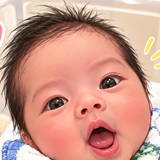
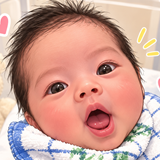
看板:24小時橫棒每項任務用唔同色相(睡眠灰藍、自由橙);揀單人時唔再用總表(只全部人有總表);德德頭像重剪包返下巴

diff --git a/src/Board.jsx b/src/Board.jsx
@@ -89,7 +89,7 @@ export default function Board() {
   const [viewS, setView] = useState(() => (['day', 'list'].includes(cget('board-view')) ? cget('board-view') : 'time'))
   // 「我嘅時間」永遠係 Benny、只有列表;「全貌」先有人物篩選同總表
   const who = mode === 'me' ? 'benny' : whoS
-  const view = mode === 'me' && viewS === 'day' ? 'time' : viewS
+  const view = (mode === 'me' || whoS !== 'all') && viewS === 'day' ? 'time' : viewS
   const [rows, setRows] = useState(() => cget('board')) // 全部日子嘅格
   const [err, setErr] = useState('')
   const [edit, setEdit] = useState(null)
@@ -288,7 +288,7 @@ export default function Board() {
           </label>
           <label>顯示
             <select value={view} onChange={(e) => pickView(e.target.value)}>
-              {mode === 'all' && <option value="day">總表</option>}
+              {mode === 'all' && who === 'all' && <option value="day">總表</option>}
               <option value="time">按時間</option>
               <option value="list">按類別</option>
             </select>
@@ -341,12 +341,19 @@ export default function Board() {
 }
 
 // 24 小時去向:一條橫棒 + 每項用幾耐(自由時間珊瑚色,其他按時間長短深淺)
-const SHADES = ['#2f4a6b', '#3f6490', '#5f84ad', '#86a3c4', '#aebfd6', '#cdd8e6']
+const PAL = ['#3b7dd8', '#2aa198', '#8e63c7', '#5aa65a', '#d9608c', '#a77b4f', '#4cc2e0', '#4b4bd6', '#b5c93a', '#7a8fa8']
+const barColor = (k) => {
+  if (k === 'me') return '#f2774b'
+  if (k === 'sleep') return '#c3cfdc'
+  if (k === '__standby' || k === '__blank') return '#e9eef4'
+  let i = pickableTasks().indexOf(k)
+  if (i < 0) i = [...k].reduce((a, c) => a + c.charCodeAt(0), 0)
+  return PAL[i % PAL.length]
+}
 function Breakdown({ items, title }) {
   const total = items.reduce((a, x) => a + x.n, 0) || 1
-  let rank = 0
   const rows = items.map((x) => {
-    const color = x.k === 'me' ? '#f2774b' : x.k === '__standby' || x.k === '__blank' ? '#e3eaf2' : SHADES[Math.min(rank++, SHADES.length - 1)]
+    const color = barColor(x.k)
     return { ...x, color, name: x.k === 'me' ? '自由時間' : x.k === '__standby' ? '待命(冇指定責任)' : x.k === '__blank' ? '冇安排' : tname(x.k), icon: x.k === 'me' ? '⭐' : x.k === '__standby' ? '⏳' : x.k === '__blank' ? '▫' : ticon(x.k) }
   })
   return (
@@ -375,8 +382,7 @@ function FamilyBars({ items }) {
       <div className="bkd-title">全家 24 小時去咗邊</div>
       {items.map(({ t, items: its }) => {
         const total = its.reduce((a, x) => a + x.n, 0) || 1
-        let rank = 0
-        const rows = its.map((x) => ({ ...x, color: x.k === 'me' ? '#f2774b' : x.k === '__standby' || x.k === '__blank' ? '#e3eaf2' : SHADES[Math.min(rank++, SHADES.length - 1)] }))
+        const rows = its.map((x) => ({ ...x, color: barColor(x.k) }))
         const top = its.filter((x) => !x.k.startsWith('__') && x.k !== 'me').slice(0, 3).map((x) => tname(x.k) + ' ' + dur(x.n)).join(' · ')
         return (
           <div key={t.key} className="fb">

diff --git a/src/styles.css b/src/styles.css
@@ -469,3 +469,5 @@ mark { background: #ffe38a; color: inherit; border-radius: 3px; padding: 0 1px; 
 
 .pp .pa { overflow: hidden; }
 .pp .pa img { width: 100%; height: 100%; object-fit: cover; display: block; }
+
+.bkd-bar span + span { border-left: 1px solid rgba(255, 255, 255, .7); }
